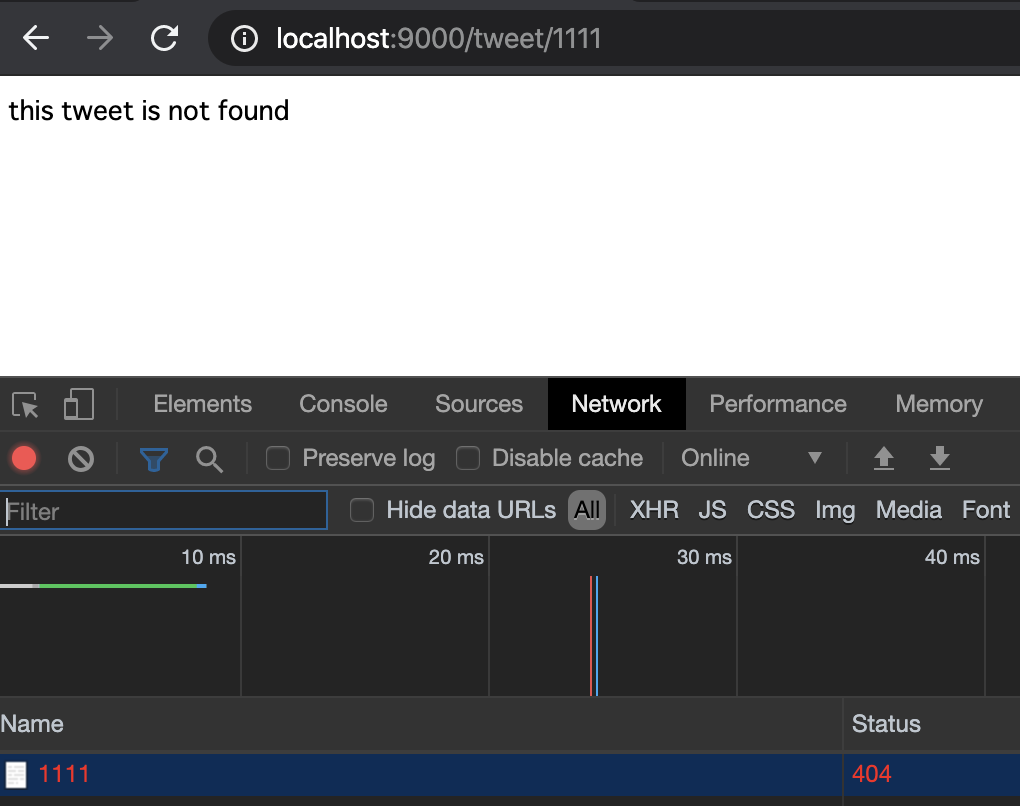
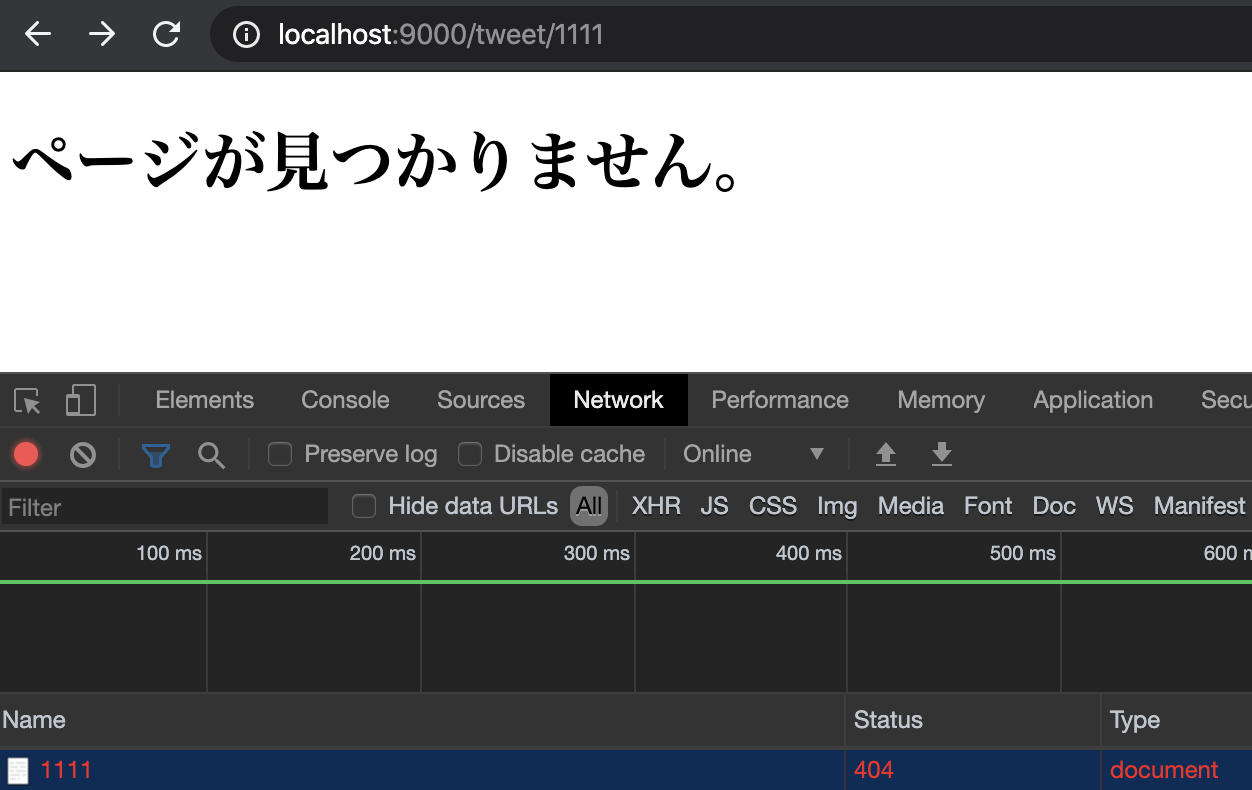
change simple 404 and add custom error handler

diff --git a/play-handson/app/views/error/page404.scala.html b/play-handson/app/views/error/page404.scala.html
@@ -1,0 +1,5 @@
+@()
+
+@main("ページが見つかりません") {
+  <h1>ページが見つかりません。</h1>
+}
